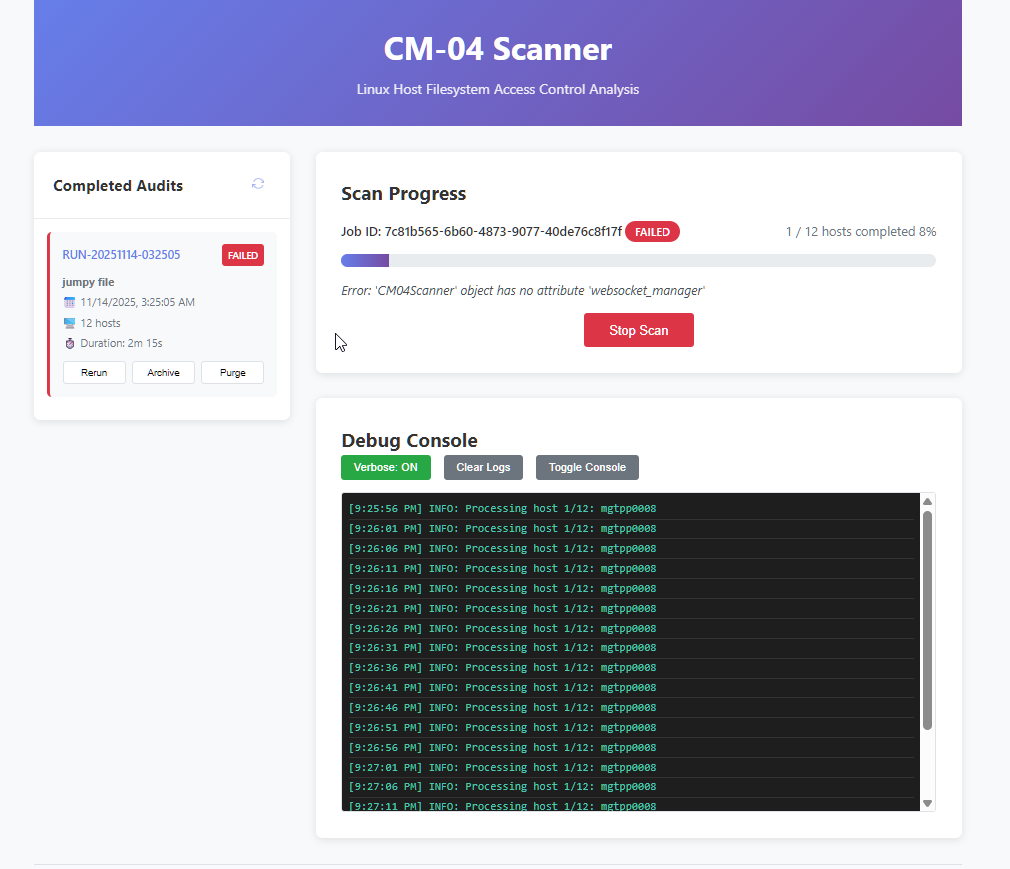
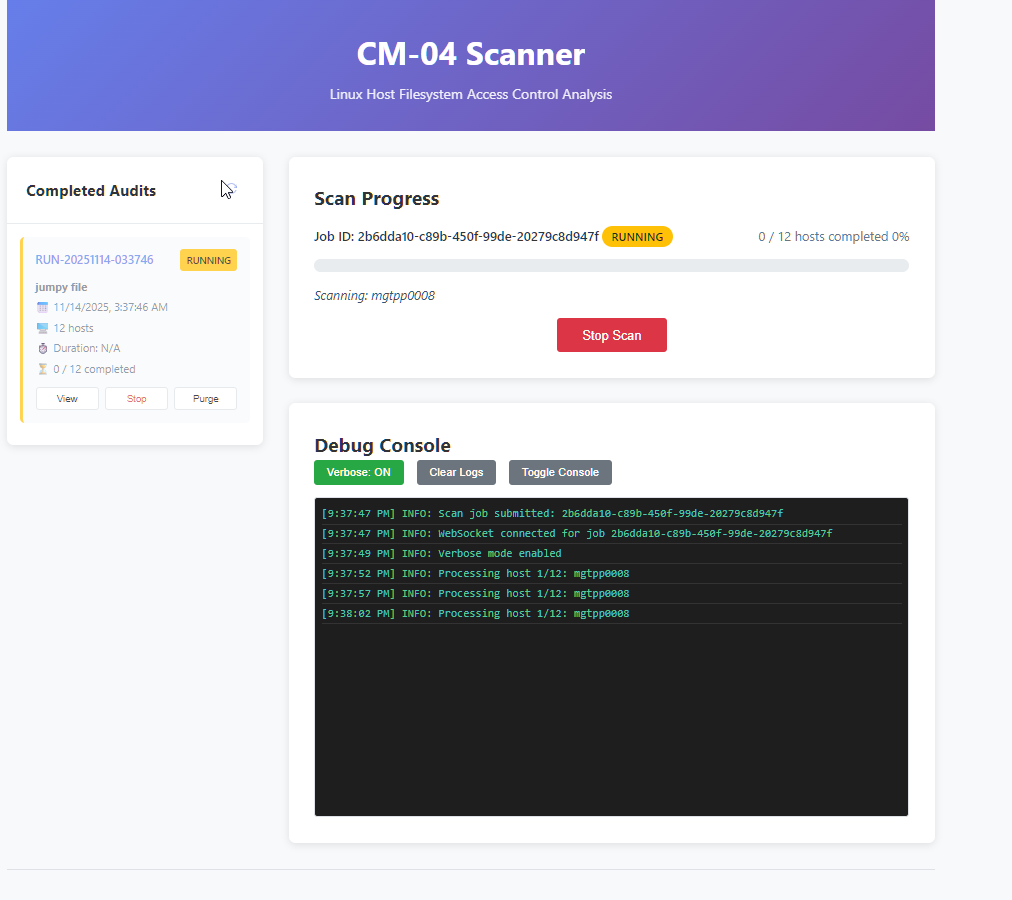
Fix progress updates and debug console issues
- Add websocket_manager to scanner initialization
- Fix progress display to update correctly with real data
- Track last processed host to avoid duplicate debug logs
- Only log host changes when they actually change
- Implement proper verbose mode that filters verbose logs
- Add non-verbose progress summaries every 5 hosts
- Fix WebSocket message handling to support multiple data formats
- Initialize progress display values when starting job monitoring
- Include status field in WebSocket progress broadcasts

diff --git a/static/js/app.js b/static/js/app.js
@@ -10,6 +10,7 @@ class CM04Scanner {
         this.verboseMode = false;
         this.debugLogBuffer = [];
         this.maxDebugLines = 500; // Keep last 500 lines in buffer
+        this.lastProcessedHost = null; // Track last host to avoid duplicate logging
         this.init();
     }
 
@@ -382,6 +383,7 @@ class CM04Scanner {
 
     startJobMonitoring(jobId) {
         this.currentJobId = jobId;
+        this.lastProcessedHost = null; // Reset for new job
 
         // Show progress section
         document.getElementById('uploadSection').style.display = 'none';
@@ -392,6 +394,10 @@ class CM04Scanner {
         document.getElementById('jobId').textContent = `Job ID: ${jobId}`;
         document.getElementById('jobStatus').textContent = 'RUNNING';
         document.getElementById('jobStatus').className = 'job-status';
+        document.getElementById('progressText').textContent = '0 / 0 hosts completed';
+        document.getElementById('progressPercent').textContent = '0%';
+        document.getElementById('progressFill').style.width = '0%';
+        document.getElementById('currentHost').textContent = 'Starting scan...';
 
         // Connect to WebSocket for real-time updates
         this.connectWebSocket(jobId);
@@ -434,11 +440,22 @@ class CM04Scanner {
     }
 
     handleJobUpdate(data) {
+        // Log the received update for debugging
+        if (this.verboseMode) {
+            console.log('[WebSocket Update]', data);
+        }
+        
+        // Update progress regardless of message type
+        if (data.status || data.completed_hosts !== undefined) {
+            this.updateProgress(data);
+        }
+        
+        // Handle specific message types
         if (data.type === 'progress') {
             this.updateProgress(data);
-        } else if (data.type === 'completed') {
+        } else if (data.type === 'completed' || data.status === 'completed') {
             this.handleJobCompleted(data);
-        } else if (data.type === 'error') {
+        } else if (data.type === 'error' || data.status === 'failed') {
             this.handleJobError(data);
         }
     }
@@ -446,16 +463,34 @@ class CM04Scanner {
     updateProgress(data) {
         const { completed_hosts, total_hosts, current_host, status } = data;
 
-        document.getElementById('progressText').textContent = `${completed_hosts} / ${total_hosts} hosts completed`;
+        // Update progress text and bar
+        const progressText = `${completed_hosts} / ${total_hosts} hosts completed`;
+        document.getElementById('progressText').textContent = progressText;
 
         const percent = total_hosts > 0 ? Math.round((completed_hosts / total_hosts) * 100) : 0;
         document.getElementById('progressPercent').textContent = `${percent}%`;
         document.getElementById('progressFill').style.width = `${percent}%`;
 
+        // Update current host display and log only when host changes
         if (current_host) {
             document.getElementById('currentHost').textContent = `Scanning: ${current_host}`;
-            // Log progress update as verbose
-            this.addDebugLog('info', `Processing host ${completed_hosts + 1}/${total_hosts}: ${current_host}`, true);
+            
+            // Only log when we move to a new host
+            if (current_host !== this.lastProcessedHost) {
+                this.lastProcessedHost = current_host;
+                const hostNumber = completed_hosts + 1; // The host currently being processed
+                
+                // Log as verbose (shows when verbose is ON)
+                this.addDebugLog('info', `Processing host ${hostNumber}/${total_hosts}: ${current_host}`, true);
+                
+                // Also log non-verbose summary every 5 hosts or when completed
+                if (hostNumber % 5 === 0 || completed_hosts === total_hosts) {
+                    this.addDebugLog('info', `Progress: ${completed_hosts}/${total_hosts} hosts completed (${percent}%)`, false);
+                }
+            }
+        } else if (completed_hosts === total_hosts && total_hosts > 0) {
+            document.getElementById('currentHost').textContent = 'All hosts processed';
+            this.addDebugLog('info', `Scan complete: ${completed_hosts}/${total_hosts} hosts processed`, false);
         }
 
         // Update summary cards if results section is visible
@@ -800,6 +835,7 @@ class CM04Scanner {
             timestamp,
             level,
             message,
+            verbose,
             text: `[${timestamp}] ${level.toUpperCase()}: ${message}`
         };
 
@@ -815,22 +851,19 @@ class CM04Scanner {
         const debugLogs = document.getElementById('debugLogs');
         const logLine = document.createElement('div');
         logLine.className = `log-entry log-${level}`;
+        if (verbose) {
+            logLine.classList.add('log-verbose');
+        }
         logLine.textContent = logEntry.text;
         debugLogs.appendChild(logLine);
-
-        // Keep only last 20 lines visible in DOM for performance
-        const lines = debugLogs.querySelectorAll('.log-entry');
-        if (lines.length > 20) {
-            for (let i = 0; i < lines.length - 20; i++) {
-                lines[i].remove();
-            }
-        }
 
         // Auto-scroll to bottom
         debugLogs.scrollTop = debugLogs.scrollHeight;
 
         // Also log to console for development
-        console.log(`[CM-04 Scanner] ${logEntry.text}`);
+        if (this.verboseMode || !verbose) {
+            console.log(`[CM-04 Scanner] ${logEntry.text}`);
+        }
     }
 
     showLoading(message = 'Loading...') {

diff --git a/src/core/scanner.py b/src/core/scanner.py
@@ -51,10 +51,11 @@ class JobState:
 class CM04Scanner:
     """Main CM-04 scanner class"""
 
-    def __init__(self):
+    def __init__(self, websocket_manager=None):
         self.jobs: Dict[str, JobState] = {}
         self.active_scans: Set[str] = set()
         self._initialized = False
+        self.websocket_manager = websocket_manager
 
     async def initialize(self):
         """Initialize scanner components"""
@@ -193,17 +194,19 @@ class CM04Scanner:
 
                 job_state.current_host_index += 1
                 
-                # Send progress update after each host completes
-                current_host = batch[j].hostname if j < len(batch) else None
-                await self.websocket_manager.broadcast_job_progress(
-                    job_state.job_id,
-                    {
-                        "current_host": current_host,
-                        "completed_hosts": job_state.completed_hosts,
-                        "total_hosts": len(job_state.hosts),
-                        "failed_hosts": job_state.failed_hosts
-                    }
-                )
+                # Send progress update after each host completes (if websocket manager available)
+                if self.websocket_manager:
+                    current_host = batch[j].hostname if j < len(batch) else None
+                    await self.websocket_manager.broadcast_job_progress(
+                        job_state.job_id,
+                        {
+                            "current_host": current_host,
+                            "completed_hosts": job_state.completed_hosts,
+                            "total_hosts": job_state.total_hosts,
+                            "failed_hosts": job_state.failed_hosts,
+                            "status": "running"
+                        }
+                    )
 
             # Small delay between batches
             await asyncio.sleep(0.1)

diff --git a/src/api/main.py b/src/api/main.py
@@ -44,7 +44,7 @@ async def lifespan(app: FastAPI):
 
     # Startup
     logger.info("Starting CM-04 Scanner API")
-    scanner = CM04Scanner()
+    scanner = CM04Scanner(websocket_manager=websocket_manager)
     await scanner.initialize()
     logger.info("Scanner initialized successfully")
 
